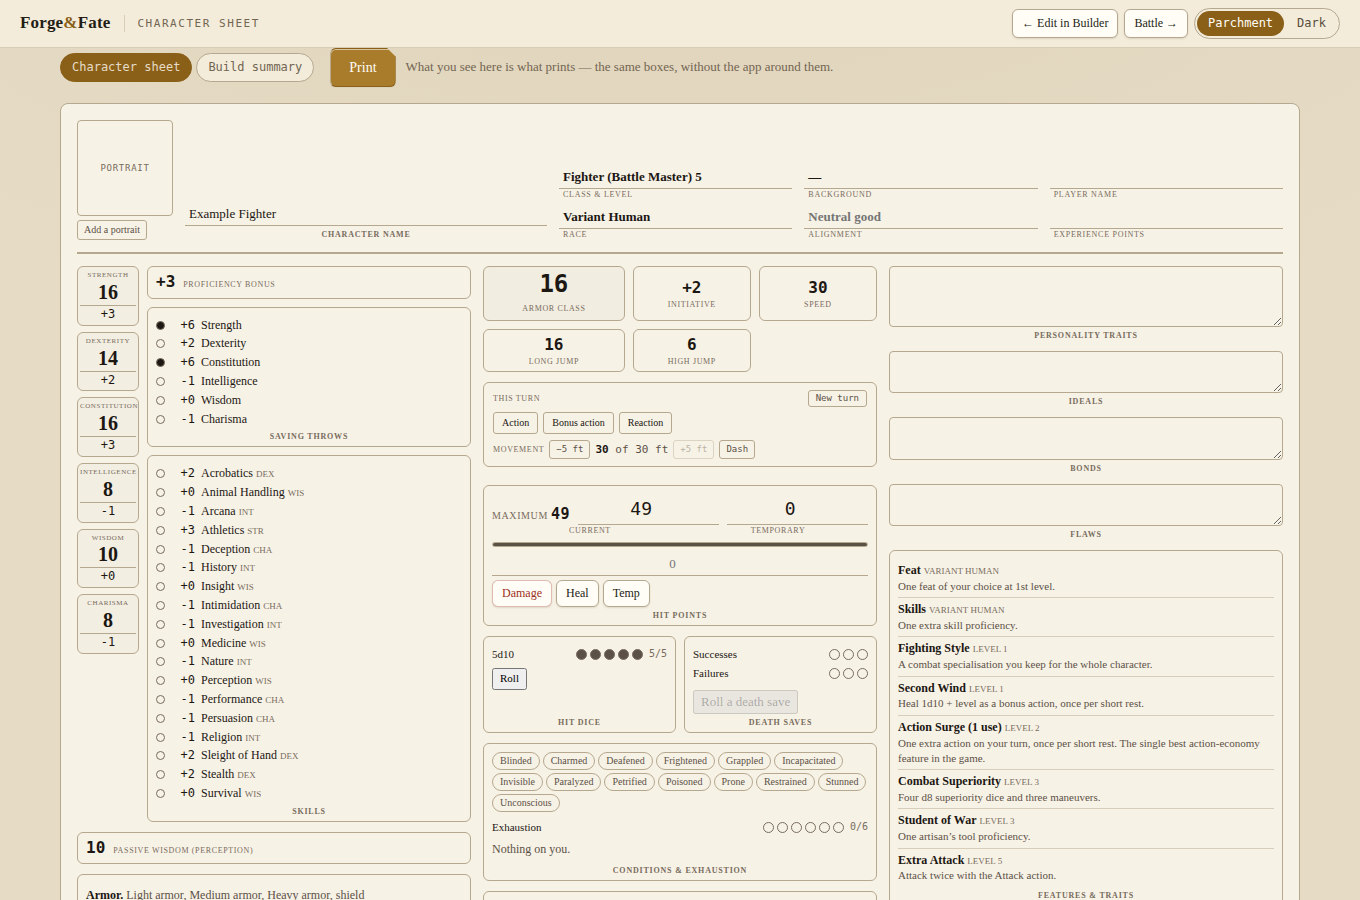
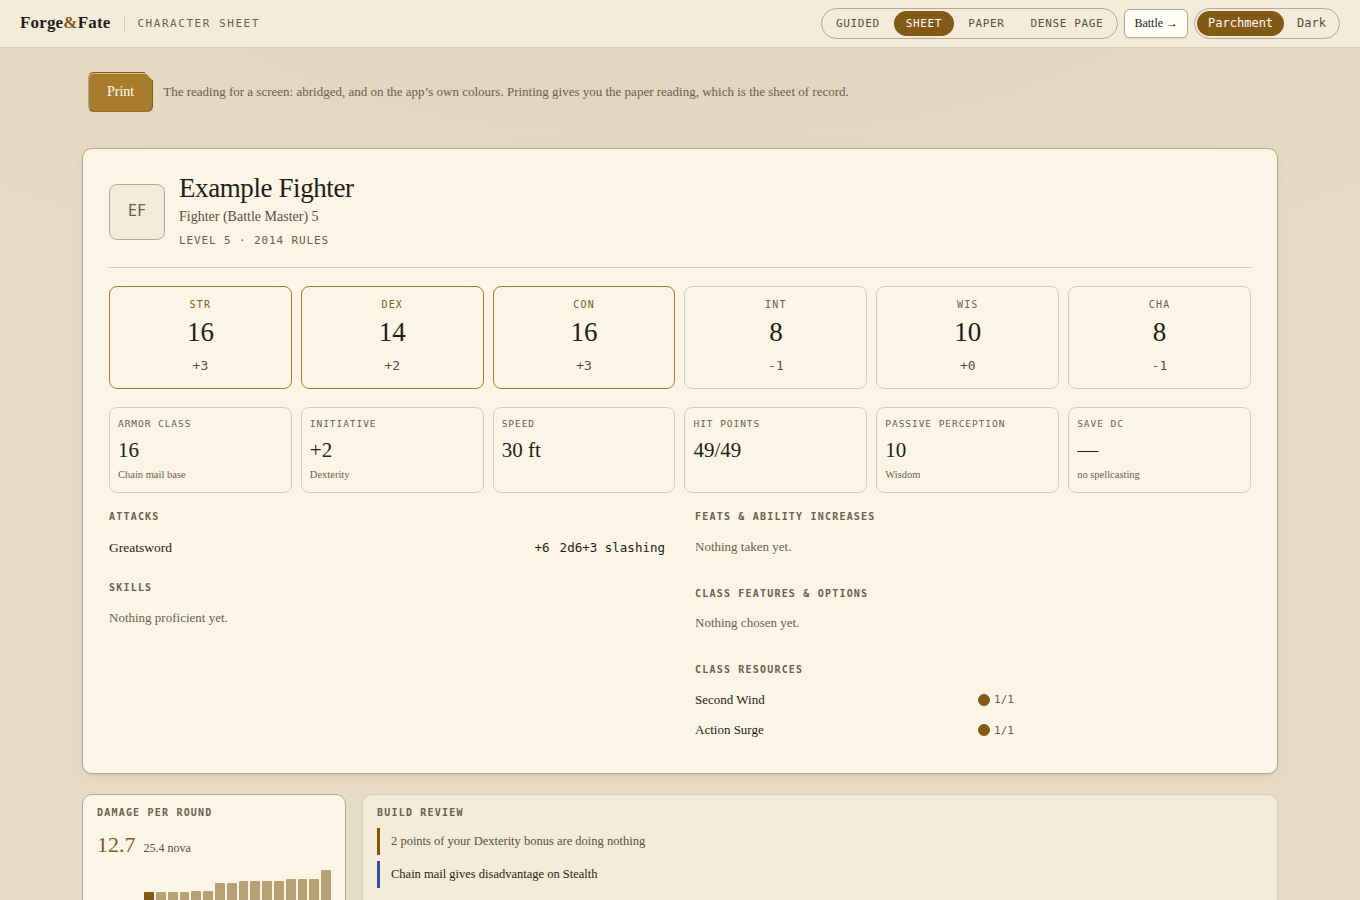
The first question moved into the flow (§154)
Species × class stopped being a separate screen: on an untouched sheet
the Builder's guided flow now opens on "Who you are", with the whole
pairing explorer inside the first step card - ranked lineages, the full
matrix, backgrounds under 2024. Loading a pairing brings its own
point-buy, which is what closes the step and moves the flow on; the
dense page's selects still answer it by hand. The pairings tab, its
gbar door and its back button are gone, and the explorer lazy-loads
inside the Builder to keep the ratings engine off first paint. run75's
superseded assertions were brought up to date.

Claude-Session: https://claude.ai/code/session_01P7mvAGGDaTo6pgMbhp2jHV

diff --git a/src/components/BuilderTab.tsx b/src/components/BuilderTab.tsx
@@ -1,6 +1,6 @@
 import { useRovingTabs } from './useRovingTabs';
 import { signed } from '../format';
-import { useEffect, useMemo, useRef, useState } from 'react';
+import { Suspense, lazy, useEffect, useMemo, useRef, useState } from 'react';
 import type { ReactNode } from 'react';
 import { ABILITIES, ABILITY_NAMES, RULESETS, RULESET_LABELS } from '../types';
 import type { Ability, Build, ClassEntry, ClassId, Loadout, Ruleset, WeaponStyle } from '../types';
@@ -28,6 +28,15 @@ import type { SkillId } from '../data/skills';
 import type { Line } from '../engine/defense';
 import type { BuildContext } from '../engine/character';
 import type { PlayState } from '../play';
+
+/*
+  §154: the species × class explorer, now the flow's first card. Lazy for the
+  same reason App kept it lazy as a tab - the ratings engine and its verdicts
+  belong to the moment someone is choosing, not to first paint.
+*/
+const RacesTab = lazy(async () => ({
+  default: (await import('./RacesTab')).RacesTab,
+}));
 import {
   POINT_BUY_BUDGET,
   POINT_BUY_MAX,
@@ -104,6 +113,7 @@ export function BuilderTab({
   play,
   onChange,
   onPlayChange,
+  onPairing,
 }: {
   build: Build;
   ctx: BuildContext;
@@ -129,6 +139,12 @@ export function BuilderTab({
   play: PlayState;
   onChange: (build: Build) => void;
   onPlayChange: (play: PlayState) => void;
+  /*
+    §154: load a species × class pairing - scores, weapons and armor reset
+    around it. Owned by App (it is the same hand the old separate screen
+    used), passed down so the flow's first card can offer it.
+  */
+  onPairing: (raceId: string, classId: ClassId) => void;
 }) {
   const patch = (partial: Partial<Build>) => onChange({ ...build, ...partial });
 
@@ -397,7 +413,42 @@ export function BuilderTab({
 
           {step?.kind === 'review' && <ReviewFindings findings={problems} />}
 
+          {/*
+            §154: the first question, in full. The species × class explorer
+            was a separate screen you had to know to visit; on an untouched
+            sheet it IS the opening step. Loading a pairing brings its own
+            point-buy, which is what closes this step and the abilities one -
+            the flow advances because the sheet moved, §138's own rule. The
+            dense page's own selects still answer it by hand.
+          */}
+          {step?.kind === 'choice' && step.choice.id === 'who' ? (
+            <div className="flow-who">
+              <Suspense fallback={<p className="muted">Loading the ratings…</p>}>
+                <RacesTab
+                  raceId={build.raceId}
+                  classId={ctx.primary.klass.id}
+                  ruleset={build.ruleset}
+                  onPick={onPairing}
+                />
+              </Suspense>
+              <p className="muted">
+                Or set species and class yourself:{' '}
+                <button
+                  type="button"
+                  className="btn btn-sm"
+                  onClick={() => {
+                    setSection('identity');
+                    onView('page');
+                  }}
+                >
+                  Answer it under {SECTION_LABEL.identity} →
+                </button>
+              </p>
+            </div>
+          ) : null}
+
           {step?.kind === 'choice' &&
+            step.choice.id !== 'who' &&
             (ranked ? (
               <div className="flow-opts">
                 {ranked.picks.map((pick, index) => {

diff --git a/src/App.tsx b/src/App.tsx
@@ -78,15 +78,13 @@ const SheetTab = lazy(async () => ({ default: (await import('./components/SheetT
   feats rank themselves in the panel where you take them, through the same
   `recommendFeats` and the same card.
 
-  The matrix is the one piece that could not move, and not for want of room.
-  Picking a pairing calls `loadPairing`, which resets ability scores, defenses,
-  feats, improvements and weapons - so it belongs on a screen you visit *before*
-  building, not inlined into the page where you are editing the build it would
-  wipe.
+  The matrix held out longest. Picking a pairing calls `loadPairing`, which
+  resets ability scores, defenses, feats, improvements and weapons - so it
+  belonged on a screen you visit *before* building. §154 found the honest
+  home for that condition: the guided flow's first step, which only shows
+  while the sheet is untouched - the one moment there is nothing to wipe.
+  The Builder lazy-loads the explorer itself; no tab remains.
 */
-const RacesTab = lazy(async () => ({
-  default: (await import('./components/RacesTab')).RacesTab,
-}));
 const CharactersTab = lazy(async () => ({
   default: (await import('./components/CharactersTab')).CharactersTab,
 }));
@@ -140,7 +138,6 @@ type Tab =
   | 'title'
   | 'builder'
   | 'sheet'
-  | 'pairings'
   | 'characters'
   | 'dungeons'
   | 'campaign'
@@ -163,7 +160,6 @@ const TAB_LABELS: Record<Tab, string> = {
   title: 'Menu',
   builder: 'Builder',
   sheet: 'Character sheet',
-  pairings: 'Species × Class',
   characters: 'Characters',
   dungeons: 'Dungeons',
   campaign: 'Campaign',
@@ -1023,20 +1019,8 @@ export default function App() {
                 ))}
               </span>
             )}
-            {tab === 'pairings' && (
-              <button className="btn btn-sm" onClick={() => setTab('builder')}>
-                Back to the Builder
-              </button>
-            )}
             {tab === 'builder' && (
               <>
-                <button
-                  className="btn btn-sm"
-                  title="Every species × class pairing rated - the reference this screen decides against"
-                  onClick={() => setTab('pairings')}
-                >
-                  Species × Class
-                </button>
                 <button
                   className="btn btn-sm"
                   onClick={stepBack}
@@ -1136,6 +1120,9 @@ export default function App() {
           play={activePlay(roster)}
           onChange={setBuild}
           onPlayChange={(next) => setRoster((current) => updatePlay(current, current.activeId, next))}
+          /* §154: the flow's first card loads pairings with the same hand
+             the old separate screen used. */
+          onPairing={loadPairing}
         />
       )}
       <Suspense fallback={<TabLoading />}>
@@ -1168,14 +1155,6 @@ export default function App() {
               showView('page');
               window.location.hash = `section-${section}`;
             }}
-          />
-        )}
-        {tab === 'pairings' && (
-          <RacesTab
-            raceId={build.raceId}
-            classId={ctx.primary.klass.id}
-            ruleset={build.ruleset}
-            onPick={loadPairing}
           />
         )}
         {tab === 'table' && (

diff --git a/src/components/BuilderTab.test.tsx b/src/components/BuilderTab.test.tsx
@@ -6,6 +6,7 @@ import { BuilderTab } from './BuilderTab';
 import { deriveBuild } from '../engine/character';
 import type { Build } from '../types';
 import { buildOf, fighter, warlockSorcerer } from '../test/factories';
+import { defaultDefenses } from '../engine/defense';
 import { emptyPlay } from '../play';
 
 /**
@@ -29,6 +30,7 @@ import { emptyPlay } from '../play';
 function setup(build: Build, view: 'flow' | 'page' = 'page') {
   const onChange = vi.fn();
   const onPlayChange = vi.fn();
+  const onPairing = vi.fn();
   let current = build;
 
   const props = () => ({
@@ -39,6 +41,7 @@ function setup(build: Build, view: 'flow' | 'page' = 'page') {
     play: emptyPlay(),
     onChange,
     onPlayChange,
+    onPairing,
   });
   const rendered = render(<BuilderTab {...props()} />);
   onChange.mockImplementation((next: Build) => {
@@ -48,6 +51,7 @@ function setup(build: Build, view: 'flow' | 'page' = 'page') {
 
   return {
     onChange,
+    onPairing,
     get build() {
       return current;
     },
@@ -1029,6 +1033,32 @@ describe('the guided flow', () => {
     expect(card().querySelector('.flow-step-target')!.textContent).toMatch(/^fills /);
   });
 
+  it('§154: an untouched sheet opens on who you are, with the pairings in the card', async () => {
+    const untouched = buildOf({
+      backgroundId: undefined,
+      baseScores: { str: 8, dex: 8, con: 8, int: 8, wis: 8, cha: 8 },
+      weapons: { magicBonus: {} },
+      defenses: defaultDefenses(),
+    });
+    const view = setup(untouched, 'flow');
+    // The first question is first - not a separate screen you had to know
+    // to visit before building.
+    expect(within(card()).getByText('Who you are')).toBeInTheDocument();
+    // The explorer arrives (lazily) inside the step card, ranked and loadable.
+    // The reasons live behind each suggestion's summary, so open the top one.
+    const top = await screen.findAllByText(/^1$/);
+    await userEvent.click(top[0].closest('summary')!);
+    const load = await screen.findAllByRole('button', {
+      name: 'Load this pairing into the builder',
+    });
+    await userEvent.click(load[0]);
+    expect(view.onPairing).toHaveBeenCalledWith(expect.any(String), expect.any(String));
+    // The way out by hand is still offered: the dense page's own selects.
+    expect(
+      within(card()).getByRole('button', { name: /Answer it under Identity/ }),
+    ).toBeInTheDocument();
+  });
+
   it('runs on the sheet rather than beside it', () => {
     setup(fighter(5), 'flow');
     /* §138: the screen reading, not the paper one - the step card is on the
@@ -1174,11 +1204,12 @@ describe('the guided flow', () => {
     rather than being a dead end in the middle of a flow.
   */
   it('says plainly when a step is a form rather than a ranking', () => {
+    // Scores spent, so §154's opening step is answered and the first thing
+    // waiting is the background - a form step.
     setup(
       buildOf({
         ...fighter(1),
         backgroundId: undefined,
-        baseScores: { str: 8, dex: 8, con: 8, int: 8, wis: 8, cha: 8 },
       }),
       'flow',
     );

diff --git a/src/components/sections.test.ts b/src/components/sections.test.ts
@@ -47,6 +47,17 @@ describe('what each section is still waiting on', () => {
     expect(openChoicesBySection(deriveBuild(spent)).abilities).toBe(0);
   });
 
+  it('§154: asks who you are first, and stops asking once the sheet is touched', () => {
+    // The species × class question opens the flow - it was a separate
+    // screen, and a first question that lives somewhere else is not first.
+    const waiting = waitingChoices(deriveBuild(blank()));
+    expect(waiting[0]?.id).toBe('who');
+    // Spending any of the budget says you have moved on; the step closes on
+    // the same no-false-positive rule the abilities one uses.
+    const spent = { ...blank(), baseScores: { str: 15, dex: 14, con: 14, int: 10, wis: 10, cha: 8 } };
+    expect(waitingChoices(deriveBuild(spent)).some((c) => c.id === 'who')).toBe(false);
+  });
+
   it('stops counting equipment once anything is held or worn', () => {
     const bare = openChoicesBySection(deriveBuild(blank())).equipment;
     expect(bare).toBeGreaterThan(0);

diff --git a/src/components/sections.ts b/src/components/sections.ts
@@ -107,6 +107,24 @@ export function waitingChoices(ctx: BuildContext): WaitingChoice[] {
   };
 
   // ---------------------------------------------------------- identity
+  /*
+    §154: the first question, asked first. Species × class was a separate
+    screen you had to know to visit before building; now it is the opening
+    step of the flow. Open exactly while the sheet is untouched - the same
+    no-false-positive rule the abilities step uses, because nobody assigns
+    all eights on purpose - which is also the only time loading a pairing
+    (which resets scores and equipment) has nothing to wipe. Answering it
+    either way closes it: a pairing brings its own point-buy, and setting
+    the six numbers by hand says you have moved on.
+  */
+  add(
+    'who',
+    'identity',
+    pointsSpent(build.baseScores) === 0 ? 1 : 0,
+    'Who you are',
+    'the identity band',
+    'form',
+  );
   add(
     'background',
     'identity',

diff --git a/src/index.css b/src/index.css
@@ -9164,6 +9164,21 @@ input.pcard-amount {
   text-wrap: pretty;
 }
 
+/* §154: the species × class explorer, as the flow's first card. Its panels
+   stack the way the flow's own blocks do, and the way out by hand sits
+   under them on the same footing as any form step's door. */
+.flow-who {
+  display: grid;
+  gap: 10px;
+}
+
+.flow-who > p {
+  display: flex;
+  align-items: center;
+  gap: 10px;
+  margin: 0;
+}
+
 /* ------------------------------------------------------ the ranked option */
 
 .flow-opts {

diff --git a/docs/HISTORY.md b/docs/HISTORY.md
@@ -9269,3 +9269,69 @@ ties stands still.
 
 **Gates.** 2719 tests / 135 files (14 new pinning each fix), `tsc -b`,
 oxlint, build in budget; battle probes §89, §90, §96 re-run clean.
+
+## 153. The seat speaks more of the menu
+
+"More player options for their sheets on their phones." The seat's plan
+vocabulary grew four words, each one chosen because the app already knows
+how to run it: **Grapple** and **Shove** name a target the way an attack
+does, **Ready** carries its trigger in the note - the placeholder asks for
+one, because a Ready action IS its trigger - and **Use an item** picks
+from the character's own inventory lines, so "I drink the potion" stops
+arriving as free text. The composer is §105's shared module, so the
+cockpit's pass-the-tablet block grew the same words for free.
+
+**And the cockpit can run three of them.** Run it stopped being
+attack-only: a grapple or shove plan runs through §114's `resolveGrab` -
+the same reach rules, refusals and one-write composition the grab tool
+uses - and a Ready plan spends the pip, sets the stance and logs the
+trigger in one write. An item plan keeps Done/Decline: what a potion does
+is the table's business.
+
+**The probe caught the bug the tests could not.** Every unit test passed
+with the plan still silently dead: `sync.ts`'s boundary guard kept its own
+hand-copied list of intent kinds, so the first new kinds since it was
+written were queued on the phone, validated away in transit, and never
+seen by the DM. The list now lives beside the type (`INTENT_KINDS`,
+`satisfies` making omission a compile error) and the guard derives from
+it. The lesson is §46's again, in protocol form: two copies of one fact,
+and the copy you forgot is load-bearing.
+
+**Gates.** Suite green, tsc, oxlint, build in budget; run153 proves the
+round trip over the real relay both themes - phone queues a Ready with its
+trigger, the DM's cockpit runs it, the log says why the fighter is waiting.
+
+## 154. The first question moved into the flow
+
+"Merge the class × species into the main character builder - it should be
+the first step in making a new character instead of having it split into
+2 parts." It was: the pairings screen was its own tab behind a gbar door,
+and the Builder's guided flow opened on the background of a character
+whose species and class it had never asked about.
+
+**Now the flow opens on Who you are.** A new first waiting choice, open
+exactly while the sheet is untouched - the same all-eights
+no-false-positive rule the abilities step uses - and its card holds the
+whole explorer: ranked lineages per class, classes per lineage, the full
+matrix, backgrounds under 2024. Loading a pairing calls the same hand the
+old screen did (scores, weapons and armor arrive with it), which is what
+closes the step: the flow advances because the sheet moved, §138's own
+rule. The dense page's selects still answer it by hand, and the card says
+so.
+
+**The timing answers the old objection.** The lazy-load note had it right:
+`loadPairing` resets scores and equipment, so it belonged on a screen you
+visit *before* building. An untouched sheet is exactly that screen. The
+step only exists while there is nothing to wipe - so the merge costs
+nothing the separation was protecting.
+
+**The separate tab is gone** - union member, labels, gbar door and back
+button - and the explorer lazy-loads inside the Builder instead, keeping
+the ratings engine off first paint. run75's superseded door assertions
+were brought up to date (along with two others that had drifted sections
+ago: the bar outgrew eight buttons on purpose, and §138's switcher
+replaced "edit in Builder").
+
+**Gates.** 2724 tests / 135 files, tsc, oxlint, build in budget; run154
+walks Start blank → Who you are → load a pairing → the flow moves on,
+both themes; §92-§96 wire probes and run75 re-run clean.
